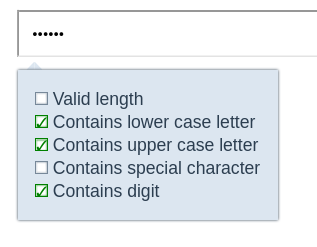
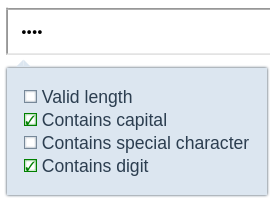
add svg's for valid and invalid password states

diff --git a/src/components/PasswordStrength.vue b/src/components/PasswordStrength.vue
@@ -2,7 +2,7 @@
   <transition name="pws-slide-up">
     <div v-if="isVisible" class="pws-container" ref="container">
       <div>
-        <input id="pws-checkbox-hasValidLength" type="checkbox" v-model="hasValidLength">
+        <input id="pws-checkbox-hasValidLength" type="checkbox" disabled v-model="hasValidLength">
         <label for="pws-checkbox-hasValidLength">{{t('pws.validLength')}}</label>
       </div>
       <div v-if="props.needCapital">
@@ -14,7 +14,7 @@
         <label for="pws-checkbox-needSpecialChar">{{t('pws.containsSpecialChar')}}</label>
       </div>
       <div v-if="props.needDigit">
-        <input id="pws-checkbox-needDigit" type="checkbox" v-model="containsDigit">
+        <input id="pws-checkbox-needDigit" type="checkbox" disabled v-model="containsDigit">
         <label for="pws-checkbox-needDigit">{{t('pws.containsDigit')}}</label>
       </div>
     </div>
@@ -126,15 +126,23 @@ onMounted(() => {
 
 <style>
   input[type=password] {
-    transition: background var(--pws-password-background-transition);
+    transition: background-color var(--pws-password-background-transition);
   }
-  input[type=password]:focus:valid {
+  input[type=password][autocomplete="new-password"]:required:focus:valid {
     background: rgba(0, 255, 1, 0.2);
     outline: 2px outset rgba(0,255,1,0.4);
+    background-image: url("../assets/hint-valid.svg");
+    background-repeat: no-repeat;
+    background-position: right 0.4em center;
+    background-size: 1.7em 1.7em;
   }
-  input[type=password]:focus:invalid {
+  input[type=password][autocomplete="new-password"]:required:focus:invalid {
     background: rgba(252,0,2,0.4);
     outline: 2px outset rgba(252,0,2,0.4);
+    background-image: url("../assets/hint-invalid.svg");
+    background-repeat: no-repeat;
+    background-position: right 0.4em center;
+    background-size: 1.7em 1.7em;
   }
 </style>
 
@@ -187,6 +195,7 @@ onMounted(() => {
   .pws-container {
     background: v-bind(backgroundColor);
     position: absolute;
+    z-index: 10;
     text-align: left;
     padding: 1rem;
     line-height: 1.3;
@@ -219,6 +228,7 @@ onMounted(() => {
     position: absolute;
     transition: v-bind(checkboxTransition);
     opacity: 0;
+    font-size: 12px;
   }
   input[type=checkbox]:checked::before {
     opacity: 1;
